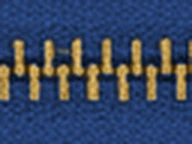
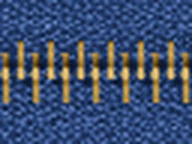
feat: guide zipper teeth built by repeating one cleaned tooth period (metal averaged, vislon/nylon from the cleanest real stretch) and split per pixel into left/right halves; tape keeps the photo fabric with stronger weave and a light weft lift; canvas clears fully before redrawing; zipper image URL

diff --git a/lib/zipperCanvas.ts b/lib/zipperCanvas.ts
@@ -4,7 +4,7 @@
 // 그래서 색이나 종류·손잡이가 바뀔 때 한 번만 사진에 색과 그림자를 입혀 캔버스에 구워 두고(bake),
 // 창마다 놓인 캔버스에 그 그림을 한 번 그려 둔다(draw). 끄는 동안에는 이미 그려진 층을 transform 으로 옮기기만 한다.
 import { PULL_PHOTO, STRIP } from './zipperParts'
-import type { Pull } from './zipperSpec'
+import { ZIPPER_ASSET_V, type Pull } from './zipperSpec'
 
 type Kind = keyof typeof STRIP
 type RGB = readonly [number, number, number]
@@ -40,9 +40,10 @@ const canvas = (w: number, h: number) => {
   return c
 }
 
-// 사진 색 입히기(전에 쓰던 SVG 필터와 같은 계산): 밝기(회색) × 색 × slope. soft 면 색을 20% 뺀다(천이 희게 바랜 느낌)
+// 사진 색 입히기(전에 쓰던 SVG 필터와 같은 계산): 밝기(회색) × 색 × slope.
+// lift: 천 — 평균보다 밝은 결은 살짝 희끗하게(청바지 씨실이 비치는 느낌, 샘플 C)
 // metalZone: 끈·가죽·러버 슬라이더 사진에서 몸통 쪽(오른쪽) 이 폭(px) 안의 밝은 무채색(몸통·금속 고리)만 물들인다
-const tint = (img: HTMLImageElement, color: RGB | null, slope: number, soft = false, metalZone = 0) => {
+const tint = (img: HTMLImageElement, color: RGB | null, slope: number, lift = false, metalZone = 0) => {
   const c = canvas(img.naturalWidth, img.naturalHeight)
   const x = c.getContext('2d', { willReadFrequently: true })!
   x.drawImage(img, 0, 0)
@@ -52,10 +53,6 @@ const tint = (img: HTMLImageElement, color: RGB | null, slope: number, soft = fa
   const kr = (color[0] / 255) * slope
   const kg = (color[1] / 255) * slope
   const kb = (color[2] / 255) * slope
-  const s = 0.8
-  const m = soft
-    ? [0.213 + 0.787 * s, 0.715 - 0.715 * s, 0.072 - 0.072 * s, 0.213 - 0.213 * s, 0.715 + 0.285 * s, 0.072 - 0.072 * s, 0.213 - 0.213 * s, 0.715 - 0.715 * s, 0.072 + 0.928 * s]
-    : null
   const W = c.width
   const zx = W - metalZone
   for (let i = 0; i < p.length; i += 4) {
@@ -72,13 +69,11 @@ const tint = (img: HTMLImageElement, color: RGB | null, slope: number, soft = fa
     let r = Math.min(255, g * kr)
     let gg = Math.min(255, g * kg)
     let b = Math.min(255, g * kb)
-    if (m) {
-      const r2 = m[0] * r + m[1] * gg + m[2] * b
-      const g2 = m[3] * r + m[4] * gg + m[5] * b
-      const b2 = m[6] * r + m[7] * gg + m[8] * b
-      r = r2
-      gg = g2
-      b = b2
+    if (lift) {
+      const hi = Math.min(1, Math.max(0, ((g * slope) / 255 - 1) / 0.6)) * 0.32
+      r += (200 - r) * hi
+      gg += (210 - gg) * hi
+      b += (225 - b) * hi
     }
     p[i] = p[i] + (r - p[i]) * wgt
     p[i + 1] = p[i + 1] + (gg - p[i + 1]) * wgt
@@ -138,14 +133,14 @@ export const bake = async (
   const st = STRIP[kind]
   const parts = ['full', 'up', 'dn'] as const
   const imgs = await Promise.all([
-    ...parts.flatMap((p) => [load(`/zipper/${kind}-${p}.webp`), st.mask ? load(`/zipper/${kind}-${p}-t.webp`) : null]),
-    load(`/zipper/pull-${pull}.webp`),
+    ...parts.flatMap((p) => [load(`/zipper/${kind}-${p}.webp?v=${ZIPPER_ASSET_V}`), st.mask ? load(`/zipper/${kind}-${p}-t.webp?v=${ZIPPER_ASSET_V}`) : null]),
+    load(`/zipper/pull-${pull}.webp?v=${ZIPPER_ASSET_V}`),
   ])
   const stripRect = { x: -VW, y: CY + st.y, w: st.len, h: st.h }
   const strips = parts.map((_, i) => {
     const tape = imgs[i * 2]!
     const teeth = imgs[i * 2 + 1]
-    const layers = [tint(tape, colors.tape, st.tape)]
+    const layers = [tint(tape, colors.tape, st.tape, true)]
     if (teeth) layers.push(tint(teeth, colors.teeth, st.teeth))
     return compose(layers, stripRect, 1, { sd: 3.5, dy: 3 })
   })
@@ -171,8 +166,11 @@ const size = (cv: HTMLCanvasElement, w: number, h: number, dpr: number) => {
   if (cv.width !== W || cv.height !== H) {
     cv.width = W
     cv.height = H
-  } else cv.getContext('2d')!.clearRect(0, 0, W, H)
-  return cv.getContext('2d')!
+  }
+  const x = cv.getContext('2d')!
+  x.setTransform(1, 0, 0, 1, 0, 0) // 지난번 그리기의 변환이 남아 있으면 일부만 지워진다
+  x.clearRect(0, 0, W, H)
+  return x
 }
 
 // 지퍼 줄: 가운데(VW/2, CY)를 축으로 f 배, 그 뒤 위아래로 dy

diff --git a/lib/zipperParts.ts b/lib/zipperParts.ts
@@ -1,11 +1,11 @@
-// 자동 생성: scratchpad strips_v4.py · extract_v2.py (tape.png · texture.png · slider.png → public/zipper). 직접 고치지 말 것.
+// 자동 생성: scratchpad strips_v5.py · extract_v2.py (tape.png · texture.png · slider.png → public/zipper). 직접 고치지 말 것.
 // 단위는 가이드 지퍼 그림 좌표(가로 640). y 는 가운데 줄 기준(위가 음수). 줄 그림(full·up·dn)은 모두 같은 자리·크기. 줄 그림(full·up·dn)은 모두 같은 자리·크기. 줄 그림(full·up·dn)은 모두 같은 자리·크기. 줄 그림(full·up·dn)은 모두 같은 자리·크기. 줄 그림(full·up·dn)은 모두 같은 자리·크기. 줄 그림(full·up·dn)은 모두 같은 자리·크기. 줄 그림(full·up·dn)은 모두 같은 자리·크기. 줄 그림(full·up·dn)은 모두 같은 자리·크기.
 
 export const STRIP = {
-  metal: { len: 1920.0, y: -121.0, h: 238.0, tape: 1.947, teeth: 1.7, mask: true },
-  vislon: { len: 1920.0, y: -119.0, h: 236.0, tape: 1.932, teeth: 1.7, mask: true },
-  coil: { len: 1920.0, y: -123.0, h: 238.0, tape: 2.107, teeth: 1.7, mask: true },
-  conceal: { len: 1920.0, y: -115.0, h: 230.0, tape: 1.962, teeth: 1.7, mask: false },
+  metal: { len: 1920.0, y: -119.0, h: 236.0, tape: 1.947, teeth: 1.7, mask: true },
+  vislon: { len: 1920.0, y: -121.0, h: 236.0, tape: 1.936, teeth: 1.7, mask: true },
+  coil: { len: 1920.0, y: -119.0, h: 236.0, tape: 2.112, teeth: 1.7, mask: true },
+  conceal: { len: 1920.0, y: -117.0, h: 230.0, tape: 1.975, teeth: 1.7, mask: false },
 } as const
 
 // 손잡이별 슬라이더 사진(원본 그대로 한 장: 몸통 + 손잡이): 그림 단위 자리·크기(y 는 가운데 줄 기준),

diff --git a/components/ZipperPlay.tsx b/components/ZipperPlay.tsx
@@ -3,7 +3,7 @@
 import { useCallback, useEffect, useRef } from 'react'
 import { PULL_PHOTO, STRIP } from '@/lib/zipperParts'
 import { bake, drawSlider, drawStrip, readColor, type Baked } from '@/lib/zipperCanvas'
-import { sizeScale, type Pull } from '@/lib/zipperSpec'
+import { ZIPPER_ASSET_V, sizeScale, type Pull } from '@/lib/zipperSpec'
 
 // 가이드 "직접 골라 보기"의 가까이 보기: 끌어서 여닫는 지퍼(테이프에 글자는 넣지 않는다).
 // 그림은 모두 사진(public/zipper, tape.png · slider.png 에서 자른 것)이다. 종류·손잡이는 부모가 넘기고,
@@ -44,8 +44,8 @@ const Strip = ({ kind, part, f }: { kind: ZipKind; part: 'full' | 'up' | 'dn'; f
   const img = { x: -W, y: CY + st.y, width: st.len, height: st.h, preserveAspectRatio: 'none' as const }
   return (
     <g transform={grow(f)} filter="url(#zp-hsh)">
-      <image href={`/zipper/${kind}-${part}.webp`} {...img} filter="url(#zp-tint-tape)" />
-      {st.mask && <image href={`/zipper/${kind}-${part}-t.webp`} {...img} filter="url(#zp-tint-teeth)" />}
+      <image href={`/zipper/${kind}-${part}.webp?v=${ZIPPER_ASSET_V}`} {...img} filter="url(#zp-tint-tape)" />
+      {st.mask && <image href={`/zipper/${kind}-${part}-t.webp?v=${ZIPPER_ASSET_V}`} {...img} filter="url(#zp-tint-teeth)" />}
     </g>
   )
 }
@@ -78,7 +78,7 @@ const SliderPhoto = ({ f, pull }: { f: number; pull: Pull }) => {
   return (
     <g transform={slide(f)}>
       <image
-        href={`/zipper/pull-${pull}.webp`}
+        href={`/zipper/pull-${pull}.webp?v=${ZIPPER_ASSET_V}`}
         x={ph.x}
         y={ph.y}
         width={ph.w}

diff --git a/components/ZipperLab.tsx b/components/ZipperLab.tsx
@@ -3,7 +3,7 @@
 import { useState } from 'react'
 import { PopBox } from './Picker'
 import ZipperPlay from './ZipperPlay'
-import { DEFAULT_SPEC, KINDS, METALS, PULLS, TAPE_COLORS, fixSpec, isLight, specVars, type Spec } from '@/lib/zipperSpec'
+import { DEFAULT_SPEC, KINDS, METALS, PULLS, TAPE_COLORS, fixSpec, isLight, specVars, ZIPPER_ASSET_V, type Spec } from '@/lib/zipperSpec'
 
 // 가이드 맨 위 "직접 골라 보기": 상담 문의 양식처럼 종류 · 슬라이더 두 가지만 고른다.
 //   종류 상자: 지퍼 종류 4가지 + 컬러(테이프) / 슬라이더 상자: 손잡이 6가지 + 컬러(도금 또는 원하는 색)
@@ -14,10 +14,10 @@ const metalBg = (stops: readonly string[]) => `linear-gradient(150deg, ${stops[0
 // 미리 줄여 둔 작은 WebP 썸네일(종류: 이 부분 확대 사진, 손잡이: slider.png 에서 자른 사진)
 /* eslint-disable @next/next/no-img-element */
 const KindIcon = ({ kind }: { kind: Spec['kind'] }) => (
-  <img src={`/zipper/kind-${kind}-icon.webp`} alt="" className="pick__photo pick__photo--kind" loading="lazy" decoding="async" />
+  <img src={`/zipper/kind-${kind}-icon.webp?v=${ZIPPER_ASSET_V}`} alt="" className="pick__photo pick__photo--kind" loading="lazy" decoding="async" />
 )
 const PullIcon = ({ pull }: { pull: Spec['pull'] }) => (
-  <img src={`/zipper/pull-${pull}-gold.webp`} alt="" className="pick__photo" loading="lazy" decoding="async" />
+  <img src={`/zipper/pull-${pull}-gold.webp?v=${ZIPPER_ASSET_V}`} alt="" className="pick__photo" loading="lazy" decoding="async" />
 )
 /* eslint-enable @next/next/no-img-element */
 

diff --git a/components/ContactForm.tsx b/components/ContactForm.tsx
@@ -4,7 +4,7 @@ import { startTransition, useActionState, useState } from 'react'
 import { sendInquiry, type InquiryState } from '@/app/actions/inquiry'
 import Picker from './Picker'
 import { ANSWER_MAX, CHOICES, FILES_MAX, FILES_MAX_TOTAL, FILE_ACCEPT, MODES, TEXTS, UNDECIDED, fileAllowed, findMissing, formatBytes, type Mode } from '@/lib/inquiryForm'
-import { PULLS } from '@/lib/zipperSpec'
+import { PULLS, ZIPPER_ASSET_V } from '@/lib/zipperSpec'
 
 // 상담 문의 폼. 서버 액션(sendInquiry) → 백엔드 API 가 hyunwoo.kim@daeyanging.com 으로 메일(첨부 포함)을 보내고,
 // 보낸 분께는 접수 확인 메일을 보낸다.
@@ -40,7 +40,7 @@ const preview = (name: string, option: string): { icon?: React.ReactNode; hint?:
   if (option === UNDECIDED) return { hint: '상담하며 정해요' }
   const key = name === 'q_kind' ? KIND_ICON[option] : name === 'q_slider' ? PULLS.find((p) => p.label === option)?.key : undefined
   if (!key) return {}
-  const src = name === 'q_kind' ? `/zipper/kind-${key}-icon.webp` : `/zipper/pull-${key}-gold.webp`
+  const src = (name === 'q_kind' ? `/zipper/kind-${key}-icon.webp` : `/zipper/pull-${key}-gold.webp`) + `?v=${ZIPPER_ASSET_V}`
   // eslint-disable-next-line @next/next/no-img-element -- 미리 줄여 둔 작은 WebP 썸네일
   return { icon: <img src={src} alt="" className={`pick__photo pick__photo--${name === 'q_kind' ? 'kind' : 'pull'}${LONG.has(key) ? ' pick__photo--long' : ''}`} loading="lazy" decoding="async" /> }
 }

diff --git a/lib/zipperSpec.ts b/lib/zipperSpec.ts
@@ -130,3 +130,6 @@ export const specVars = (s: Spec): Record<string, string> => {
 
 // 호수 → 미리보기 이·슬라이더 크기 배율
 export const sizeScale = (size: number) => ({ 3: 0.74, 5: 1, 8: 1.28, 10: 1.48 })[size] ?? 1
+
+// public/zipper 그림을 다시 만들 때마다 올린다(브라우저에 남은 옛 그림을 쓰지 않게 주소 뒤에 ?v= 로 붙인다)
+export const ZIPPER_ASSET_V = 7
